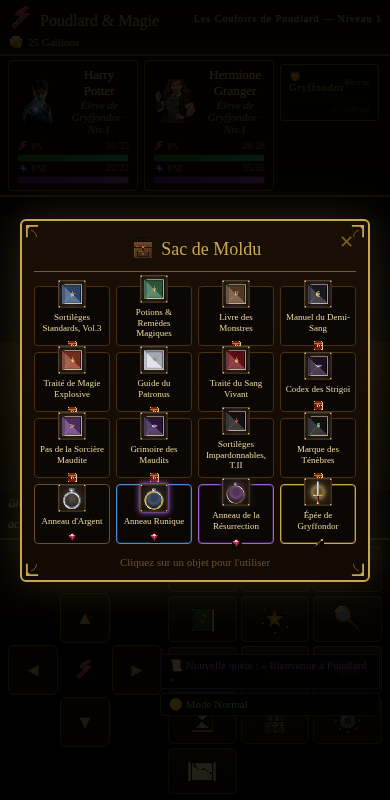
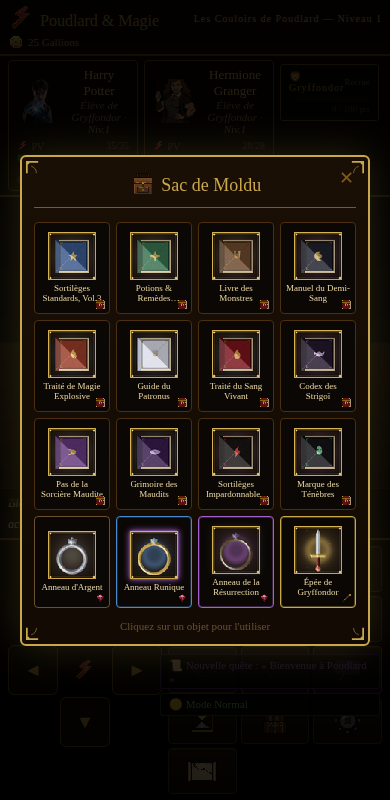
fix(inventory): mobile — icônes agrandies + tap-preview overlay centré
Suite à revue : la précédente itération mobile gardait les icônes à
~32px (CSS legacy) malgré la génération des mipmaps 64px. De plus le
tap-preview affichait bien la tooltip mais elle débordait du viewport
quand on tapait une cellule en bord d'écran.

Fixes (@media max-width:700px) :
- .inv-slot : min-height 92px, padding 5px
- .inv-slot .ui-icon : 48×48 (vs 28-32 avant) — utilise effectivement
  le mipmap 64px généré par le pipeline painterly
- .inv-slot .item-name : line-clamp 2 + ellipsis (évite que les noms
  longs comme « Sortilèges Impardonnables T.II » fassent exploser la
  hauteur de la rangée)
- typeLabel : position absolute coin bas-droit, 12×12px, opacity 0.75
  (cohérent avec le rendu desktop)

Tap-preview overlay (@media hover:none) :
- La tooltip passe en position:fixed centrée écran (50% / 50%) au
  lieu de bottom:100% relatif à la cellule. width 280px, max-width
  86vw. Plus de débordement quand on tape une cellule en bord.
- L'animation opacity reste, ajout box-shadow plus marqué.

Captures :
- tools/_shots/inv-mobile.png — état par défaut (16 items lisibles)
- tools/_shots/inv-mobile-preview.png — après tap, tooltip centrée
  affichant nom + rareté + sort enseigné + description + action

node tests/smoke.js ✅ (aucune régression desktop).

diff --git a/css/style.css b/css/style.css
@@ -834,8 +834,46 @@ body {
   }
   .inv-slot .inv-type-badge .ui-icon { width: 14px; height: 14px; }
 }
-/* Mobile : tap-preview montre la tooltip riche, comme hover sur desktop */
+/* Mobile : tap-preview montre la tooltip riche, comme hover sur desktop.
+ * Sur tactile on positionne en overlay centré (et non collé à la cellule)
+ * pour ne pas déborder du viewport quand la cellule est en bord d'écran. */
 .inv-slot.tap-preview .item-tooltip { opacity: 1; visibility: visible; }
+@media (hover: none) {
+  .inv-slot.tap-preview .item-tooltip {
+    position: fixed;
+    bottom: auto; left: 50%; top: 50%;
+    transform: translate(-50%, -50%);
+    max-width: 86vw; width: 280px;
+    z-index: 9999;
+    box-shadow: 0 8px 24px rgba(0,0,0,0.9);
+  }
+}
+
+/* Mobile (≤700 px) : on garde le nom mais on agrandit l'icône à 48 px
+ * (mipmap 64 px downscaled propre) et on clampe le texte sur 2 lignes
+ * pour éviter qu'un nom long fasse exploser la hauteur de la grille. */
+@media (max-width: 700px) {
+  .inv-slot {
+    height: auto; min-height: 92px;
+    padding: 5px; gap: 3px;
+    position: relative;
+  }
+  .inv-slot .ui-icon-xl,
+  .inv-slot .ui-icon { width: 48px; height: 48px; }
+  .inv-slot .item-name {
+    font-size: 9px; line-height: 1.15;
+    max-width: 100%; overflow: hidden;
+    display: -webkit-box; -webkit-line-clamp: 2;
+    -webkit-box-orient: vertical;
+    text-overflow: ellipsis;
+  }
+  /* typeLabel passe aussi en badge discret coin bas-droit */
+  .inv-slot .inv-type-badge {
+    position: absolute; bottom: 3px; right: 3px; margin: 0 !important;
+    opacity: 0.75; pointer-events: none;
+  }
+  .inv-slot .inv-type-badge .ui-icon { width: 12px; height: 12px; }
+}
 
 /* Bordure de rareté — voir .claude/plans/equipment-extended.md §2.6.
  * `common` reste sur la bordure or-sombre par défaut. Les variantes
